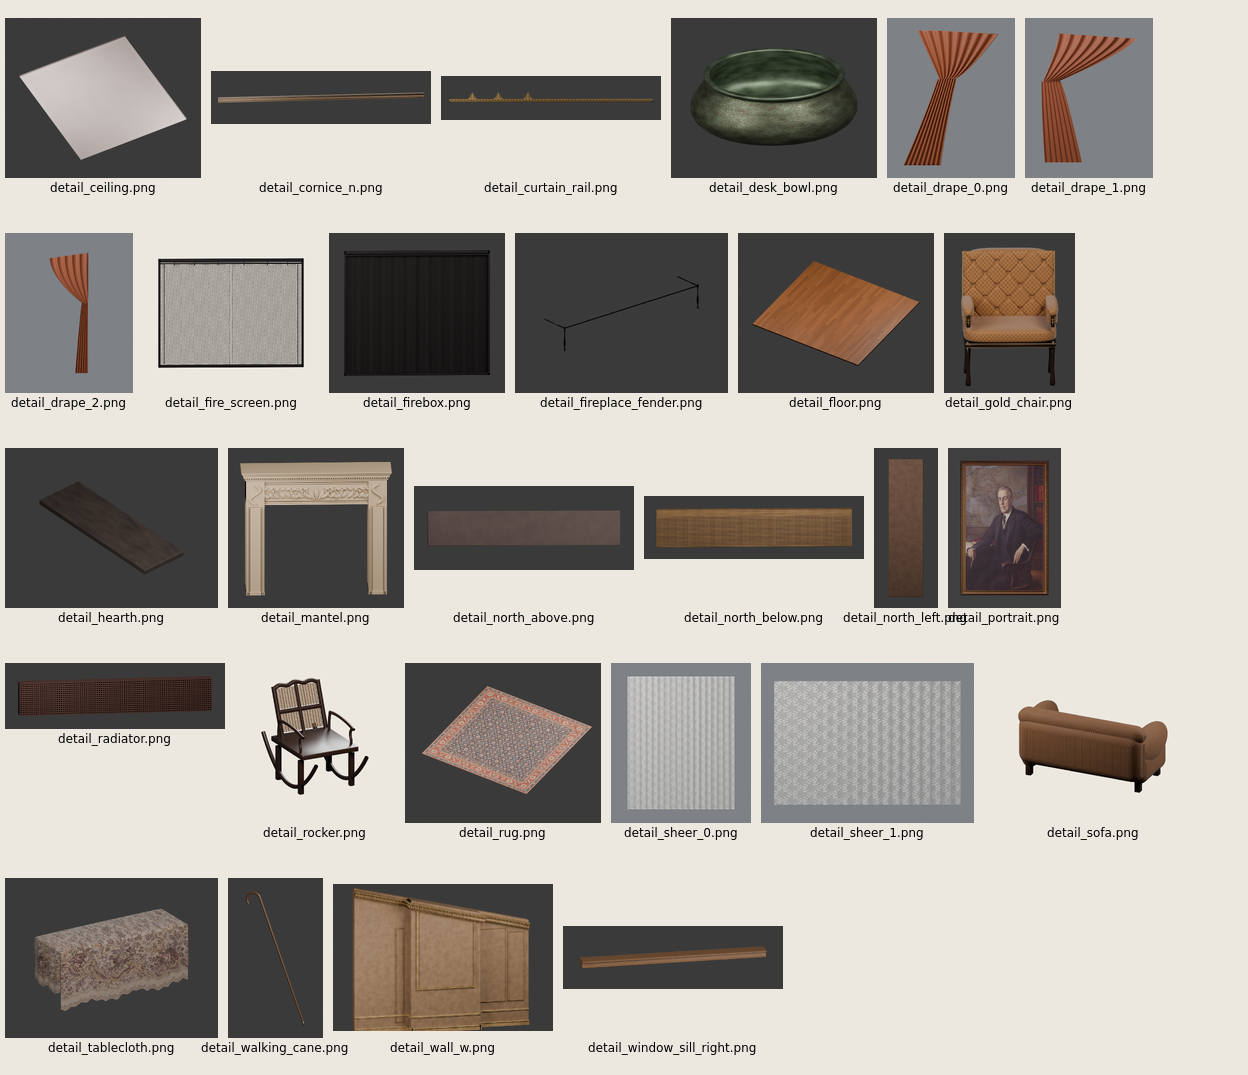
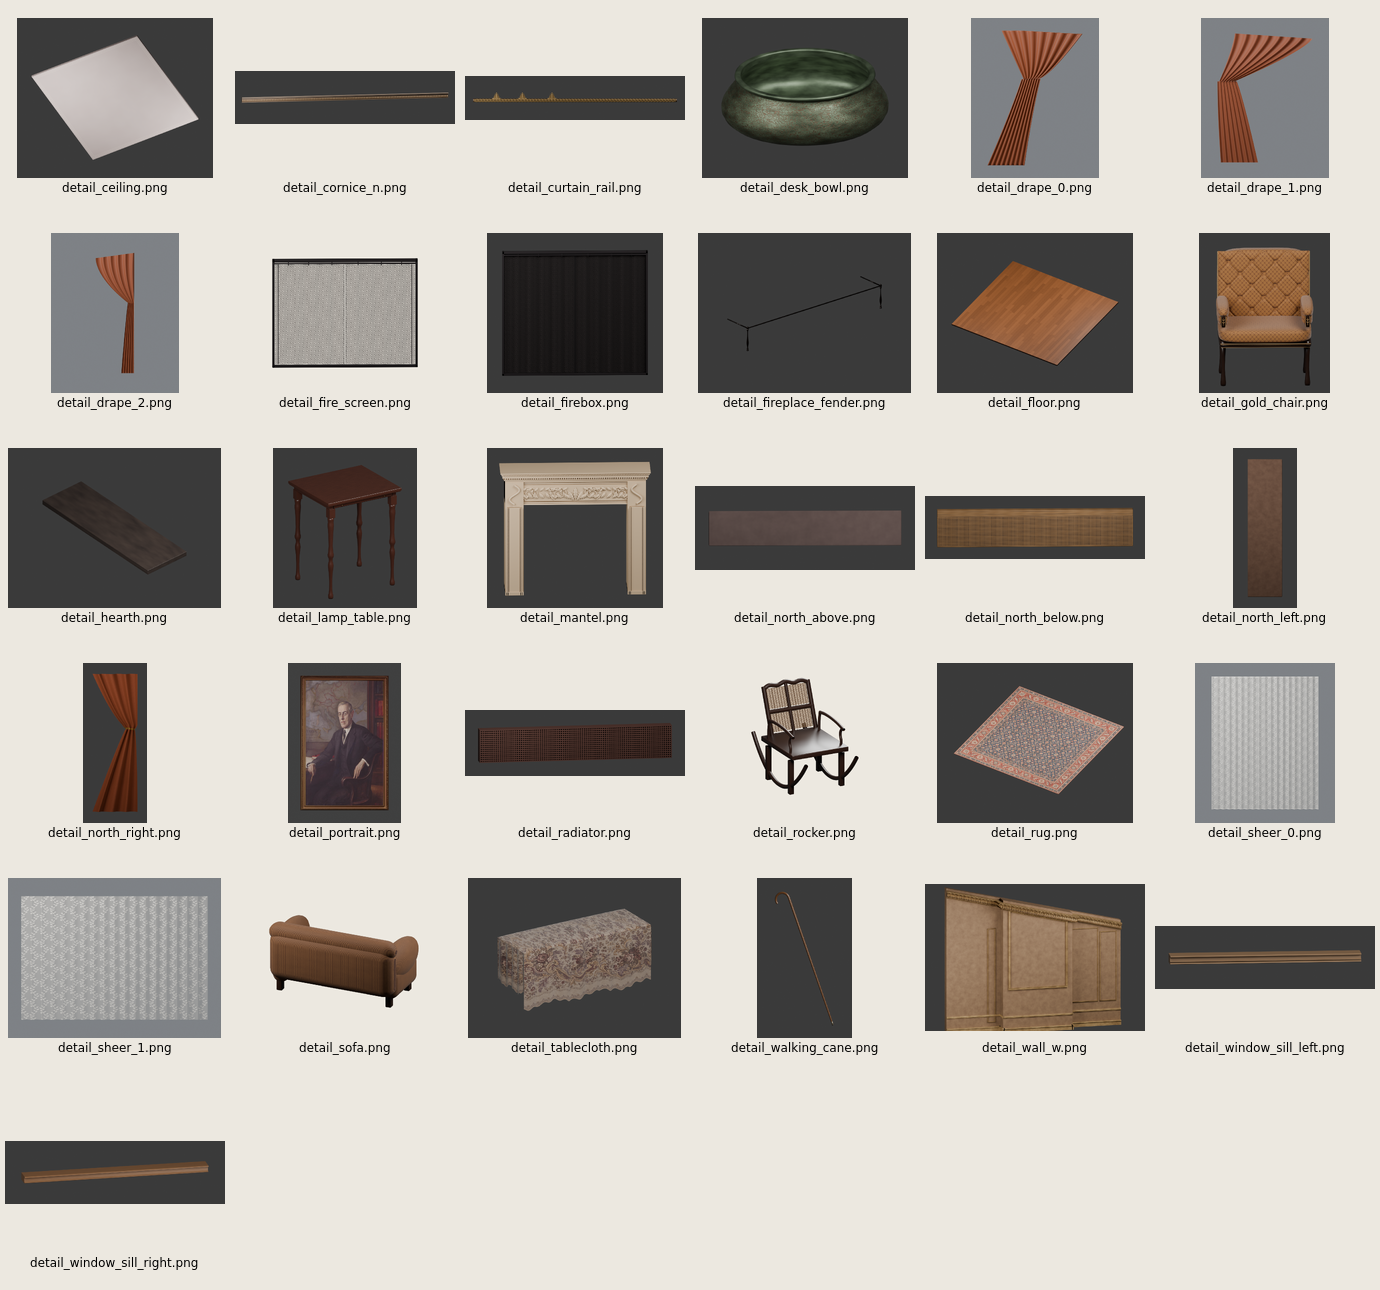
Preserve resumable Wilson House detail checkpoint

diff --git a/examples/wilson-house/scores.md b/examples/wilson-house/scores.md
@@ -1,6 +1,6 @@
 # Wilson House scores
 
-RESUMABLE: 35/99 detail objects finalized; active stage `object:lamp_table`. Final gate score is not yet measured; latest available visual critic: 7/10 (`object:window_sill_right`).
+RESUMABLE: 37/99 detail objects finalized; interrupted stage `object:window_sill_left`, attempt 2, sequence 150. Final scene gate and critic scores are not yet measured; latest available visual critic: 7/10 (`object:window_sill_left`).
 
 A gate score of 10 means the applicable driver checks passed; 0 means they rejected the attempt. A dash means no scored machine gate or no visual critic ran. Gate success measures contract compliance, not photographic similarity. Final gate and visual scores remain separate.
 
@@ -105,6 +105,11 @@ A gate score of 10 means the applicable driver checks passed; 0 means they rejec
 | object:tablecloth | 2 | 10/10 | 6/10 | 180 | Add deeper, irregular vertical folds and a softer tabletop-to-hanging transition; break up the straight corners and uniform hem.; Replace the evenly spaced flowers and sinusoidal stripe with a broad, sweeping gold-edged border containing dense floral and leafy scrollwork.; Shift the fabric toward muted gray-taupe with burgundy, dusty lavender, and antique-gold ornament, reducing the broad blank areas. |
 | object:window_sill_right | 1 | 10/10 | 7/10 | 153 | Initial entry or forward rebuild. |
 | object:window_sill_right | 2 | 10/10 | 7/10 | 92 | Increase the fascia height beneath the top lip to match the broader flat wooden band in the crop.; Darken the wood to a muted walnut brown and reduce the bright, contrasting grain.; Strengthen the dark recessed line beneath the top lip and simplify the lower molding into the crop's narrow stepped bands. |
+| object:lamp_table | 1 | 10/10 | 4/10 | 265 | Initial entry or forward rebuild. |
+| object:lamp_table | 2 | 10/10 | 4/10 | 244 | Increase the depth of the apron/drawer section beneath the tabletop and make its small round hardware more prominent.; Replace the exaggerated repeated leg bulges with heavier, less conspicuously segmented supports; match the visible lower horizontal framing.; Darken the wood to the reference’s deep reddish brown and reduce the bright polished edge highlights. |
+| object:north_right | 1 | 10/10 | 3/10 | 265 | Initial entry or forward rebuild. |
+| object:north_right | 2 | 10/10 | 5/10 | 253 | Shape the upper fabric into a diagonal sweep gathered at a tieback around two-fifths of the visible height, then let the lower folds fan outward.; Replace evenly spaced straight ribs with fewer, deeper, irregular folds that converge at the gathering point and broaden toward the bottom.; Add the visible gold tieback and give the fabric a darker burnt-orange velvet finish with soft highlights and deep fold shadows. |
+| object:window_sill_left | 1 | 10/10 | 7/10 | 121 | Initial entry or forward rebuild. |
 
 ## Critic and gate findings
 
@@ -818,3 +823,43 @@ Recognisable as the wooden sill beneath the right window. The long horizontal fo
 
 - Give the upper lip a more rounded, projecting profile and deepen the horizontal recess beneath it.
 - Use warmer golden-brown wood with subtle grain and darker shading in the moulding grooves.
+
+### object:lamp_table attempt 1
+
+The dark wooden table reads broadly correctly, but the render’s exposed, slender four-leg design differs from the crop’s heavier, mostly occluded table beneath an open book.
+
+- Increase the depth of the apron/drawer section beneath the tabletop and make its small round hardware more prominent.
+- Replace the exaggerated repeated leg bulges with heavier, less conspicuously segmented supports; match the visible lower horizontal framing.
+- Darken the wood to the reference’s deep reddish brown and reduce the bright polished edge highlights.
+
+### object:lamp_table attempt 2
+
+The dark wood and shallow drawer suggest the reference table, but the render reads as a generic spindly table. The crop shows a heavier apron and a more substantial, partly obscured lower structure; hidden geometry cannot be judged confidently.
+
+- Deepen the drawer/apron beneath the tabletop and give its lower edge a more pronounced molded profile.
+- Replace the uniformly slender legs with heavier shaped supports and add the visible low horizontal framing.
+- Add the open book visible across the tabletop to match the reference silhouette.
+
+### object:north_right attempt 1
+
+The render reads as rust-colored pleated fabric, but its rigid rectangular silhouette and uniform corrugations miss the crop's gathered, asymmetrical velvet curtain.
+
+- Shape the upper fabric into a diagonal sweep gathered at a tieback around two-fifths of the visible height, then let the lower folds fan outward.
+- Replace evenly spaced straight ribs with fewer, deeper, irregular folds that converge at the gathering point and broaden toward the bottom.
+- Add the visible gold tieback and give the fabric a darker burnt-orange velvet finish with soft highlights and deep fold shadows.
+
+### object:north_right attempt 2
+
+The rust velvet material is recognizable, but the render has a broad hourglass silhouette while the crop shows a narrow, mostly vertical curtain with a substantial straight outer fall.
+
+- Narrow the overall silhouette and keep the right outer fall nearly vertical from top to bottom, with the gathered section confined toward the left.
+- Move the gathering point lower, to roughly 42% of the curtain height, and replace the conspicuous horizontal gold band with a small, partly concealed decorative tieback.
+- Reduce the lower panel's leftward flare and use longer, straighter folds with deeper shadowed channels and softer velvet highlights.
+
+### object:window_sill_left attempt 1
+
+Recognisable as the left window sill and apron, with appropriate brown material and horizontal molding. The render is too slender and uniformly layered compared with the crop's broad flat fascia and stronger lower recess.
+
+- Increase the fascia height relative to its length, retaining a broad, mostly flat central face.
+- Deepen and darken the horizontal recess beneath the fascia and make the lower trim a distinct wider band.
+- Darken the wood to a warmer aged brown with subtle surface variation.

diff --git a/examples/wilson-house/report.md b/examples/wilson-house/report.md
@@ -1,6 +1,6 @@
 # Wilson House worked example
 
-RESUMABLE: 35/99 detail objects finalized; active stage `object:lamp_table`. Final gate score is not yet measured; latest available visual critic: 7/10 (`object:window_sill_right`).
+RESUMABLE: 37/99 detail objects finalized; interrupted stage `object:window_sill_left`, attempt 2, sequence 150. Final scene gate and critic scores are not yet measured; latest available visual critic: 7/10 (`object:window_sill_left`).
 
 The Library of Congress photograph is the reconstruction reference; [ATTRIBUTION.md](ATTRIBUTION.md) gives the credit, rights statement, and full-resolution link. The pipeline received the 6114×4842 full-resolution JPEG. The repository source is the supplied 1529×1211 copy.
 
@@ -9,6 +9,8 @@ The Library of Congress photograph is the reconstruction reference; [ATTRIBUTION
 The run began with an empty work directory on `05b4bad57d40f982c0ca4209af511e90c8f2454c`. The generic asset builder was seeded by the driver. The scene-agnostic detail prompt fix `ce3c95c9ca51d8a5663cbbe170d00781220e9714` preceded the saved detail checkpoint.
 
 This continuation uses the published main tip `ed4bc7e691ec081840040e3acc7918af97c712b5`, including the footprint tiers, whole-photo detail context, identification review, and separate builder/critic GOTO allowances. The existing contracts, completed attempts, and artifacts were retained. This is a continuation across workflow revisions, not a fresh measurement of one revision. The published prompts, driver, contracts, and budgets were not tuned for the photograph.
+
+The execution window ended before the detail stage completed. Integration, materials, final rendering, and the final comparison remain pending. No final scene score or final render is claimed; the partial example is preserved for continuation. The interrupted attempt has no completed record and resumes under the driver’s existing attempt accounting.
 
 ## Attempt measurements
 
@@ -115,6 +117,11 @@ The complete per-attempt table below separates machine gates from visual judgmen
 | object:tablecloth | 2 | 10/10 | 6/10 | 180 | Add deeper, irregular vertical folds and a softer tabletop-to-hanging transition |
 | object:window_sill_right | 1 | 10/10 | 7/10 | 153 | Initial entry or forward rebuild. |
 | object:window_sill_right | 2 | 10/10 | 7/10 | 92 | Increase the fascia height beneath the top lip to match the broader flat wooden band in the crop. |
+| object:lamp_table | 1 | 10/10 | 4/10 | 265 | Initial entry or forward rebuild. |
+| object:lamp_table | 2 | 10/10 | 4/10 | 244 | Increase the depth of the apron/drawer section beneath the tabletop and make its small round hardware more prominent. |
+| object:north_right | 1 | 10/10 | 3/10 | 265 | Initial entry or forward rebuild. |
+| object:north_right | 2 | 10/10 | 5/10 | 253 | Shape the upper fabric into a diagonal sweep gathered at a tieback around two-fifths of the visible height, then let the lower folds fan outward. |
+| object:window_sill_left | 1 | 10/10 | 7/10 | 121 | Initial entry or forward rebuild. |
 
 ## GOTO history
 
@@ -180,6 +187,11 @@ The complete per-attempt table below separates machine gates from visual judgmen
 - cap request ignored origin=builder requested=blockout reason=The crop shows a raised curved splayed base extending outside the narrow 0.10 x 0.10 m pedestal above the foot region ceiling at z=0.07 m. Integral base geometry conflicts with declared region coverage.
 - cap reached origin=builder requested=blockout reason=Declared rails reach the post tops, conflicting with raised ball finials in the crop; lower perimeter metalwork lacks region coverage.
 - cap reached origin=builder requested=blockout reason=The crop and appended corrections conflict with narrow post regions and missing base-frame and rear-support regions. Faithful detail repair requires coordinated spatial revision.
+- cap reached origin=builder requested=blockout reason=The visible deep drawer/apron below the tabletop has no spatial region. The top is restricted to world z=0.69..0.75 m; the remaining four regions are isolated narrow legs. A spanning apron below the top cannot fit those regions.
+- cap reached origin=builder requested=blockout reason=The deeper drawer/apron and lower horizontal framing requested from the reference conflict with the supplied regions. The top occupies only world z=0.69..0.75 m; all other regions are isolated 0.05 m square leg boxes. These force an implausibly shallow drawer and cannot contain spanning lower framing.
+- cap reached origin=builder requested=blockout reason=The crop depicts a hanging rust-orange curtain, but the contract assigns a floor-supported plaster wall slab. Resolve identity, regions and ownership before detail.
+- cap reached origin=builder requested=blockout reason=Confirmed gathered velvet curtain is assigned a floor-supported plaster-wall slab. Its crop overlaps drape_2, which already identifies the same right-window gathered curtain. Correcting the silhouette and adding the gold tieback requires spatial and ownership reconciliation.
+- cap reached origin=builder requested=blockout reason=The contracted 1.70 m length and 0.08 m height make the sill/apron too slender to reproduce the photographed broad fascia and wide lower trim or satisfy the requested fascia height increase.
 
 ## Codex calls and elapsed cost
 
@@ -190,9 +202,9 @@ The legacy checkpoint does not retain a complete call-level trace. Builder count
 | blockout | 21 | 18 | 0 |
 | floorplan | 3 | 3 | 0 |
 | identify | 6 | 6 | 0 |
-| object | 144 | 43 | 23 |
+| object | 154 | 48 | 38 |
 
-Total recorded attempt time: 16206 seconds. The elapsed time includes model calls, rendering, and checks; it excludes the pause between continuations. Currency cost is not available in the retained logs.
+Total recorded attempt time: 17354 seconds. The elapsed time includes model calls, rendering, and checks; it excludes the pause between continuations. Currency cost is not available in the retained logs.
 
 ## Defects
 

diff --git a/examples/wilson-house/PROGRESS.md b/examples/wilson-house/PROGRESS.md
@@ -1,14 +1,15 @@
 # Wilson House example progress
 
-RESUMABLE: 35/99 detail objects finalized; active stage `object:lamp_table`. Final gate score is not yet measured; latest available visual critic: 7/10 (`object:window_sill_right`).
+RESUMABLE: 37/99 detail objects finalized; interrupted stage `object:window_sill_left`, attempt 2, sequence 150. Final scene gate and critic scores are not yet measured; latest available visual critic: 7/10 (`object:window_sill_left`).
 
 - Initial workflow: `05b4bad57d40f982c0ca4209af511e90c8f2454c`
 - Detail prompt driver fix: `ce3c95c9ca51d8a5663cbbe170d00781220e9714`
 - Resumed published workflow: `ed4bc7e691ec081840040e3acc7918af97c712b5`
 - Pipeline input: `highsm-17640-full.jpg` (6114×4842); no input downscaling.
 - Published source: `source.jpg` (1529×1211).
-- Completed detail objects under current contracts: 35/99.
-- Recorded attempts: 99; latest sequence: 145.
+- Completed detail objects under current contracts: 37/99.
+- Recorded attempts: 104; latest sequence: 150.
+- The pipeline process ended during the final listed attempt without a completion record. Resume uses the recorded attempt counts; the interrupted attempt has no score.
 - Next `PHOTO_TO_SCENE_STAGE`: `detail`.
 - Resume command (from the repository root): `BOTQ_ARTIFACTS_DIR=/home/bot/.local/state/botq/artifacts/3761 PHOTO_TO_SCENE_ROOT=/home/bot/scratch/photo-to-scene/example/work PHOTO_TO_SCENE_STAGE=detail ./pipeline.sh /home/bot/scratch/photo-to-scene/example/highsm-17640-full.jpg`
 
@@ -20,6 +21,7 @@ RESUMABLE: 35/99 detail objects finalized; active stage `object:lamp_table`. Fin
 | ceiling | 7/10 | 2 |
 | wall_w | 7/10 | 2 |
 | north_left | 5/10 | 2 |
+| north_right | 5/10 | 2 |
 | north_below | 8/10 | 1 |
 | north_above | 2/10 | 2 |
 | cornice_n | 7/10 | 2 |
@@ -41,6 +43,7 @@ RESUMABLE: 35/99 detail objects finalized; active stage `object:lamp_table`. Fin
 | bookcase | 0/10 | 2 |
 | gold_chair | 7/10 | 2 |
 | red_chair | 0/10 | 2 |
+| lamp_table | 4/10 | 2 |
 | round_table | 0/10 | 2 |
 | rocker | 0/10 | 2 |
 | display_table | 0/10 | 2 |

diff --git a/README.md b/README.md
@@ -68,7 +68,10 @@ CPU rendering and per-object review also make a complete run expensive. Visual c
 
 ## Example
 
-A complete example from a public-domain photograph follows in a later commit.
+The [Wilson House worked example](examples/wilson-house/report.md) reconstructs a public-domain Library of Congress photograph and currently preserves 37 of 99 completed detail objects.
+The latest completed detail attempt passed its asset gate (10/10) and scored 7/10 visually; final scene scores and the photo/final comparison remain pending.
+
+![Wilson House detail checkpoint](examples/wilson-house/renders/detail-progress.png)
 
 ## License
 
